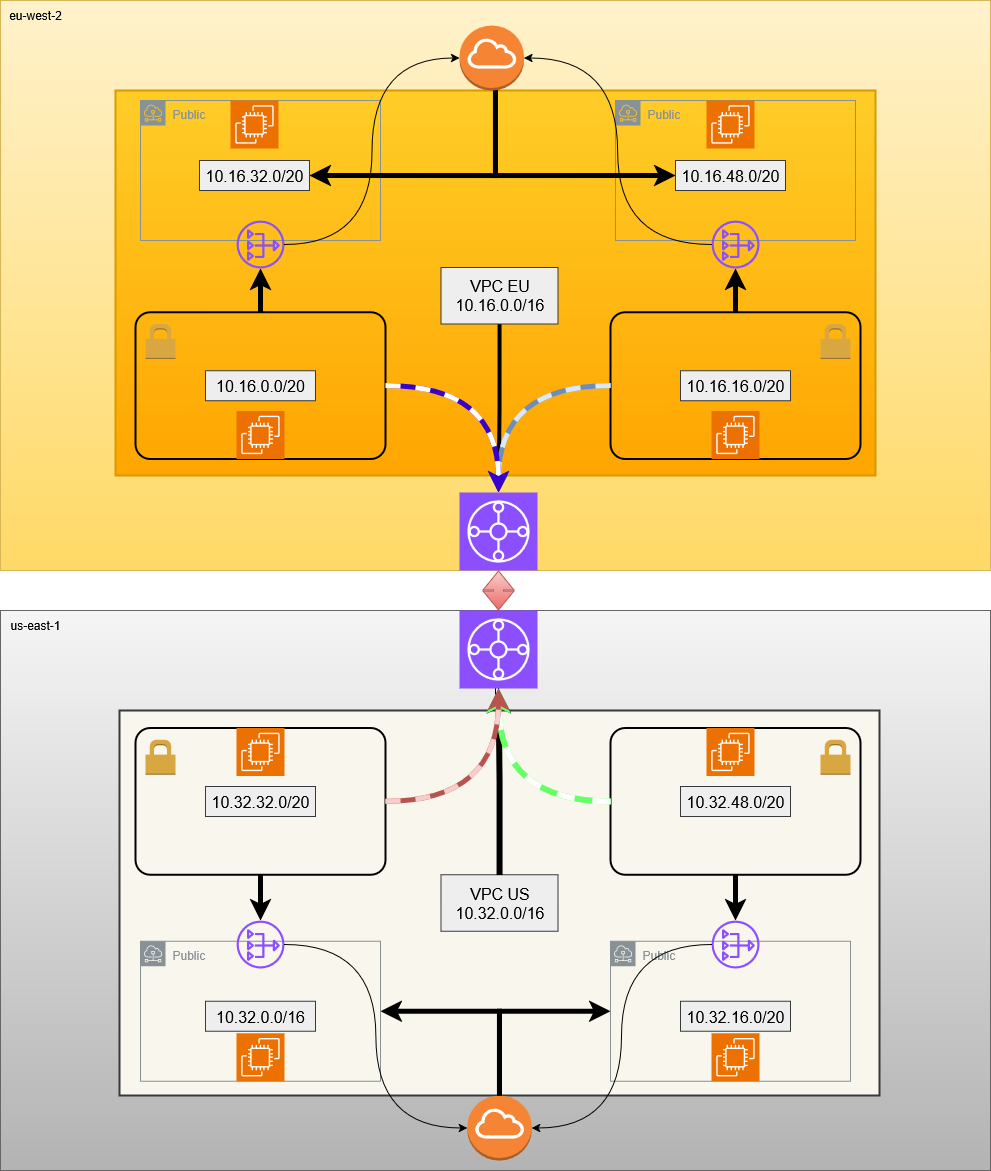
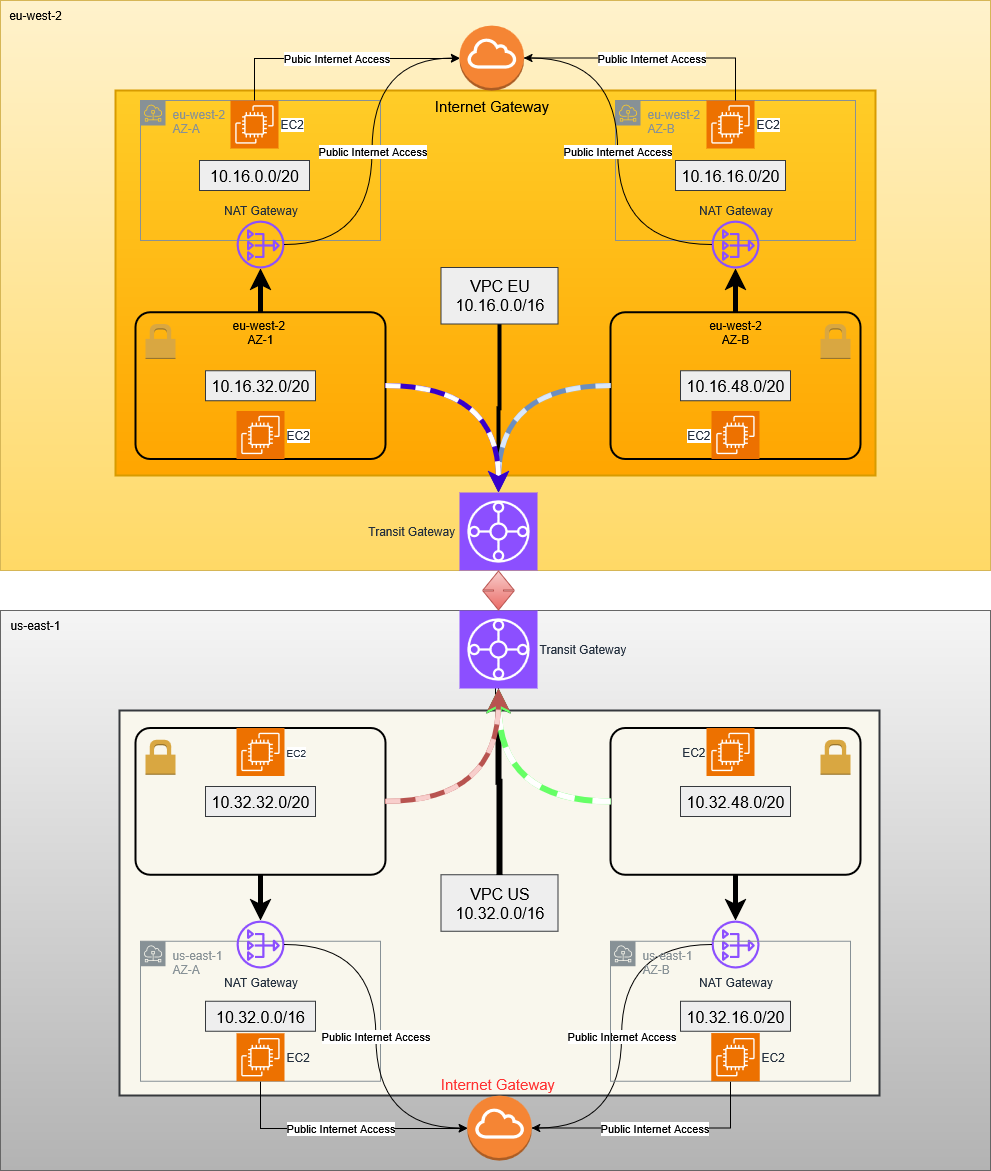
upgraded architectural diagram

diff --git a/README.md b/README.md
@@ -1,6 +1,5 @@
 # Manual Deployment of AWS Multi-Region VPC Network Architecture with Transit Gateway.
 
-![Architecture Design](/docs/architecture-diagram.png)
 
 ## Project Overview
 
@@ -45,10 +44,10 @@ To get started with deploying this AWS Multi-Region VPC Network Architecture, pl
 - Create an internet gateway and attach it to the VPC.
 - Create public subnets.
 - Subnet A 10.16.0.0/20 AZ A.
-- Subnet B 10.32.0/20 AZ B.
+- Subnet B 10.16.16.0/20 AZ B.
 - Create private subnets.
-- Subnet A 10.16.0.0/20 AZ A.
-- Subnet B 10.32.0.0/20 AZ B.
+- Subnet A 10.16.32.0/20 AZ A.
+- Subnet B 10.16.48.0/20 AZ B.
 - Configure auto-assign public IPs for public subnets.
 - Create a public route table and associate with public subnets.
 - Create private route table for private subnet A.
@@ -103,6 +102,11 @@ Once the AWS Multi-Region VPC Network Architecture with Transit Gateway is deplo
 - High Availability: With resources deployed across multiple Availability Zones and regions, the architecture inherently supports high availability across services.
 - Network Centralization: The Transit Gateway acts as a central hub for network connectivity, simplifying routing and management of inter-VPC and inter-region traffic.
 - Monitoring and Troubleshooting: VPC Flow Logs are enabled to provide detailed insights into network traffic, aiding in monitoring, security analysis, and troubleshooting connectivity issues within and between your VPCs.
+
+## Visuals Of Finished Project
+
+![Architecture Design](/docs/architecture-diagram.png)
+
 
 ## Lessons Learned & Challenges Overcome
 
